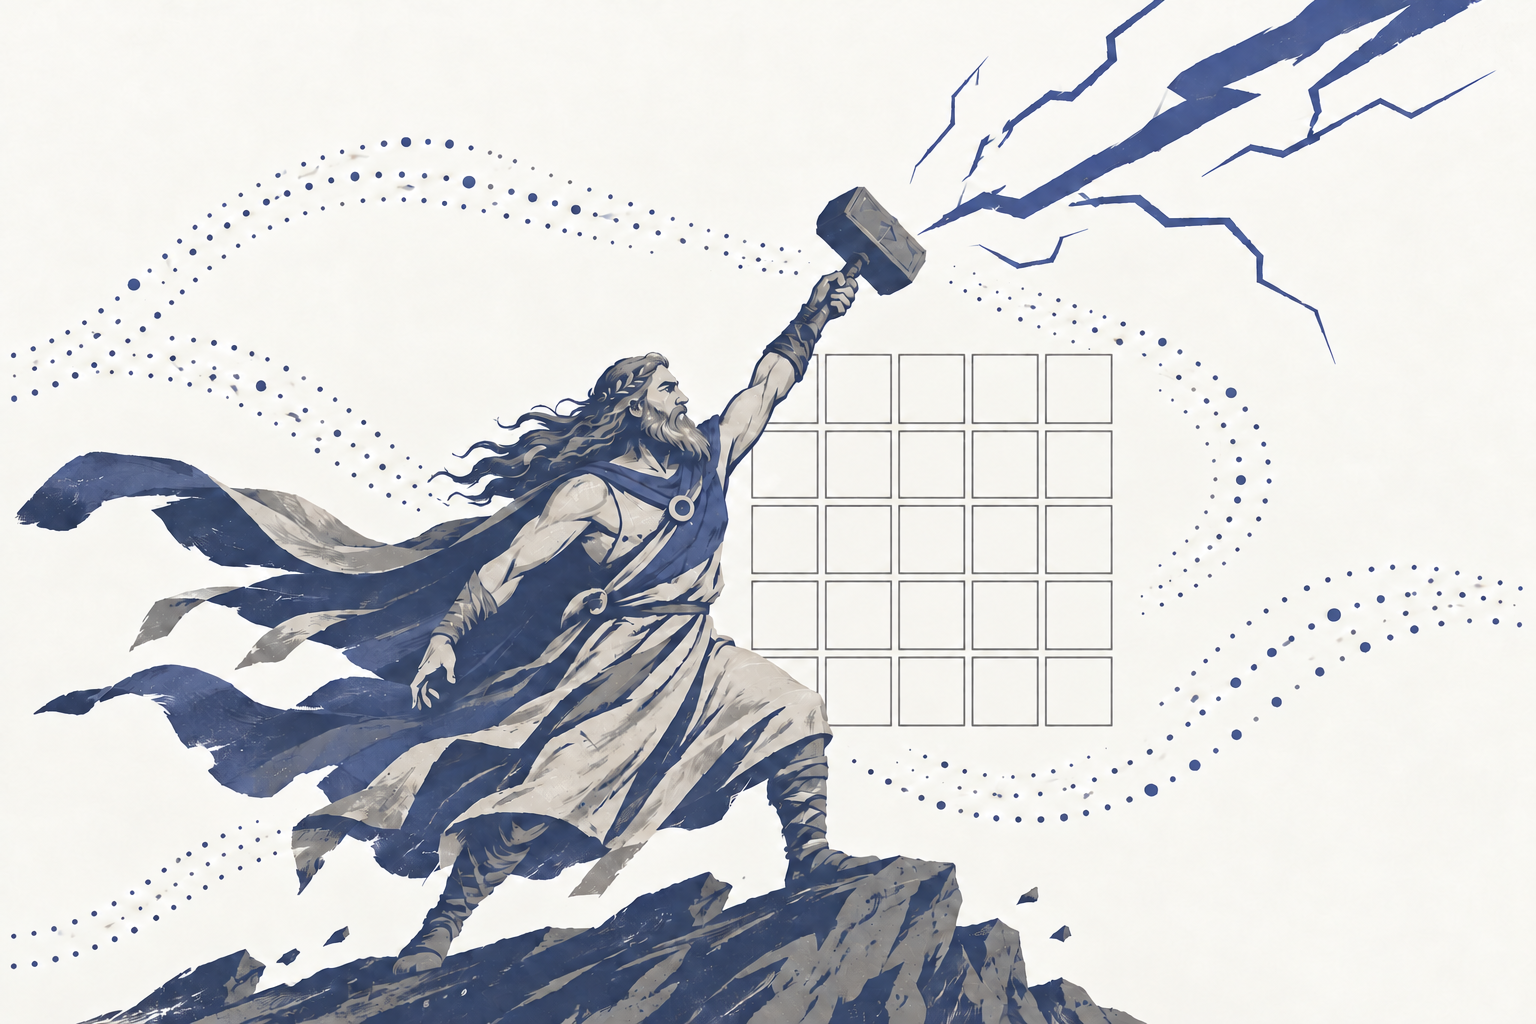
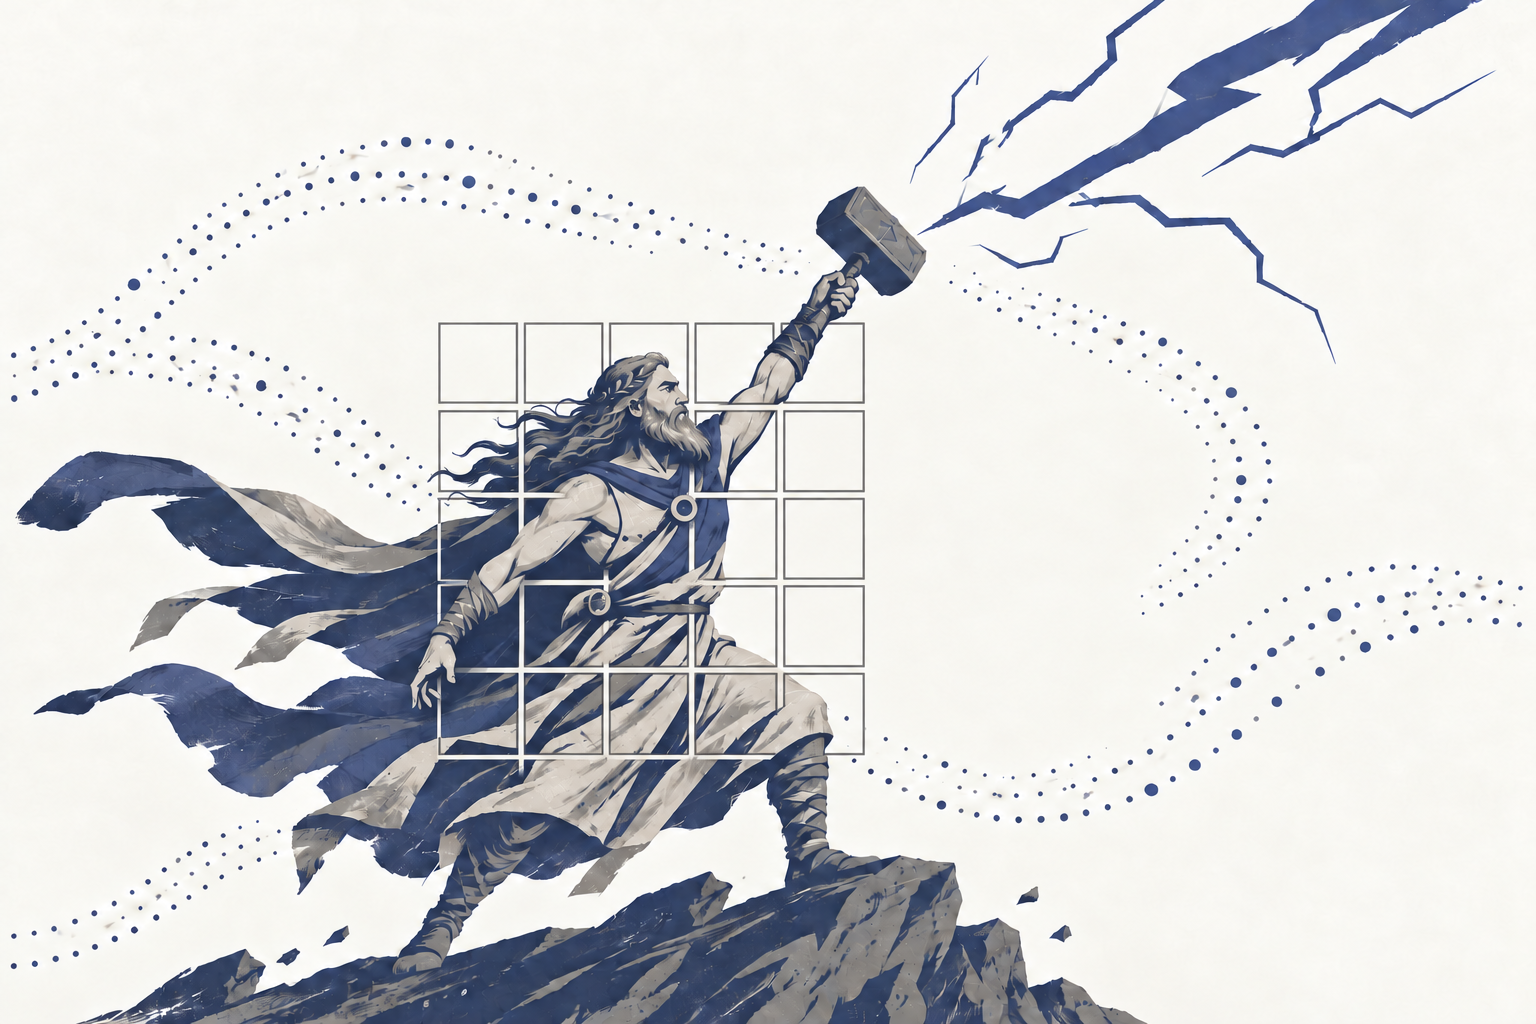
Thunder hero: weave the 5x5 grid through the god's body like the dragon
Edit pass with the Dragon artwork as the integration reference: the
regular light-gray 5x5 grid now sits across the thunder god's torso
and flowing cloak, with body, cloak and lightning passing through it
(some squares in front, some behind), mirroring how the dragon weaves
through its grid; the old free-floating grid is gone. God, hammer,
lightning, palette and style untouched. Cache version bumped to v=3.

diff --git a/thunder/index.html b/thunder/index.html
@@ -30,7 +30,7 @@
 </div>
 
 <figure class="hero">
-<img src="hero.png?v=2" alt="A Norse thunder god in indigo and ink gray raising his hammer toward a lightning bolt, above a 5×5 grid of lanes" width="1536" height="1024">
+<img src="hero.png?v=3" alt="A Norse thunder god in indigo and ink gray raising his hammer toward a lightning bolt, above a 5×5 grid of lanes" width="1536" height="1024">
 <figcaption>Thunder — the thunder god summoning lightning onto the 5×5 lane state of Thunder-p (illustration generated for this page, 2026-10-30)</figcaption>
 </figure>
 

diff --git a/thunder/index.zh.html b/thunder/index.zh.html
@@ -30,7 +30,7 @@
 </div>
 
 <figure class="hero">
-<img src="hero.png?v=2" alt="靛蓝与墨灰的北欧雷神举锤引雷，下方是 5×5 lane 状态格" width="1536" height="1024">
+<img src="hero.png?v=3" alt="靛蓝与墨灰的北欧雷神举锤引雷，下方是 5×5 lane 状态格" width="1536" height="1024">
 <figcaption>Thunder — 雷神：锤与闪电落在 Thunder-p 的 5×5 lane 状态上（本页配图，AI 生成于 2026-10-30）</figcaption>
 </figure>
 

diff --git a/2026-10-31-log.md b/2026-10-31-log.md
@@ -213,3 +213,10 @@
 - 预期产出: 原图全员可见。
 - 实际产出: 完成; Update/正面/大头的中间版本均保留在 git 历史。
 - 查看位置: https://hukaisdu.github.io/ngcc-dragon-thunder/dragon/
+
+## [2026-10-31 15:57:52] (hero 续) Step 7: Thunder 格子风格与 Dragon 统一
+- 做了什么: 双参考 edit (Thunder 图 + Dragon 图作风格参照), 仅改 Thunder 图中 5×5 格的画法 (大小/间距/线宽/灰调/水墨质感) 与 Dragon 一致; 第二轮 edit 规整几何 (25 等大方块、行列对齐); 两轮 QA 均 PASS (雷神/配色/风格无损, 无文字); 替换 thunder/hero.png, 两语言页加 ?v=2; commit+push+Pages 验证。
+- 全局作用: 两张插画中的 5×5 状态格如出一手, 视觉成对。
+- 预期产出: 格子风格统一的新图上线。
+- 实际产出: 完成。
+- 查看位置: https://hukaisdu.github.io/ngcc-dragon-thunder/thunder/
